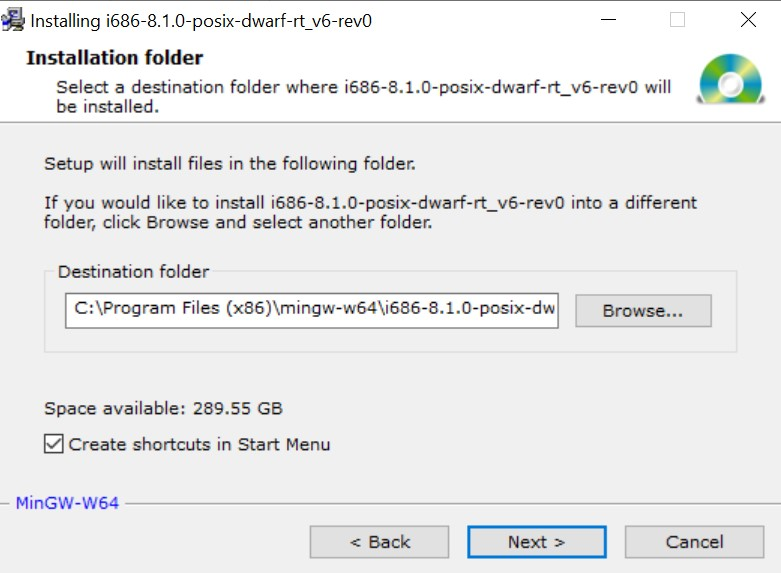
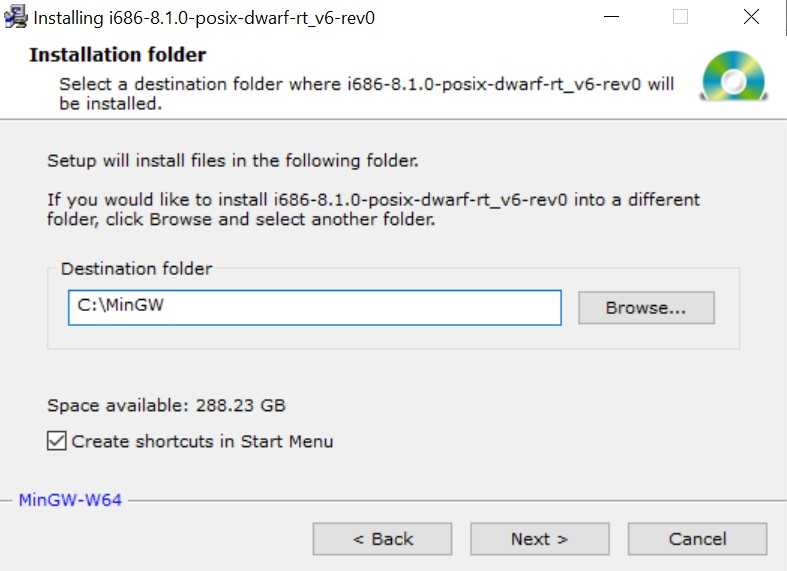
lesson 0 additions

diff --git a/lessons.html b/lessons.html
@@ -12,6 +12,7 @@
 		<link rel="stylesheet" href="assets/css/main.css" />
 		<noscript><link rel="stylesheet" href="assets/css/noscript.css" /></noscript>
 	</head>
+
 	<body class="is-preload">
 
 		<!-- Wrapper -->
@@ -42,42 +43,58 @@
 								</header>
 								<p><b>Introduction:</b> Welcome to the lessons page of the Virtual Arcade System Software Project! This poject
 										is a great opportunity to get started with object oriented programming in C++ regardless of your programming experience. If you are a beginner, don't worry! These lessons 
-										will guide you through every step of building this project. Now let's get started!</p>
-										<p><b><i>Note: This project does not assume any prior programming experience. However, this is not
+										will guide you through every step of building this project. Now let's get started!
+								</p>
+										<p>
+											<b><i>Note: This project does not assume any prior programming experience. However, this is not
 											an easy project and may require you to spend time reading through these lessons and other resources I have linked if you have 
 											little to no programming experience.</i></b> 
-										</br><hr><h2>Lesson 0: Environment setup (completion time: 30 minutes)</h2> 
-										<b>Overview:</b> Before we do anything, we need to set up an environment in which we can program in. This step is very important,
-										so please read and follow every instruction carefully. This setup can be very frustrating if you 
-										miss a step or something goes wrong so please be patient and email me with any questions. </p>
+											</br><hr><h2>Lesson 0: Environment setup (completion time: 30 minutes)</h2> 
+											<i>For terms or concepts that may require additional explanation, I have provided clickable links to simple articles that provide more detail.</i>
+											<br></br>
+											<b>Overview:</b> Before we do anything, we need to set up an environment in which we can program in. This step is very important,
+											so please read and follow every instruction carefully. This setup can be very frustrating if you 
+											miss a step or something goes wrong so please be patient and email me with any questions. 
+										</p>
 										
 										
-										<h4>1. Downloading a code editor</h4> No matter what language you use, when building a software project you need an environment where you can write code. For this project
-								we will be using Visual Studio Code which is a free code editor with tools and extensions that will help us build our project. Follow <a href="https://code.visualstudio.com/download" target="_blank">this link</a>
-							and download the according version (Windows or Mac).<br></br>
+										<h4>1. Downloading a code editor</h4>
+										 No matter what language you use, when building a software project you need an environment where you can write code. For this project
+										 we will be using Visual Studio Code which is a free code editor with tools and extensions that will help us build our project. Follow <a href="https://code.visualstudio.com/download" target="_blank">this link</a>
+										 and download the according version (Windows or Mac).<br></br>
 							
-							<ul>
-								<li>On <b>Windows</b>, an installation setup wizard should pop up (if not it will appear as something similar to "VSCodeUserSetup-x64-1.38.1.exe" in your downloads folder, double click it). Just hit next through the setup
-									and leave the default settings unless you want to configure the installation in a certain way.</li>
-								<li>On <b>Mac</b> it should show up in your downloads. Move the Visual Studio Code .app into 
-									your applications folder and then open up the app.</li>
-							  </ul>
+										<ul>
+											<li>On <b>Windows</b>, an installation setup wizard should pop up (if not it will appear as something similar to "VSCodeUserSetup-x64-1.38.1.exe" in your downloads folder, double click it). Just hit next through the setup
+												and leave the default settings unless you want to configure the installation in a certain way.</li>
+											<li>On <b>Mac</b> it should show up in your downloads. Move the Visual Studio Code .app into 
+												your applications folder and then open up the app.</li>
+										</ul>
 
-							<h4>2. Configuring Visual Studio Code for C++</h4>After installing Visual Studio Code we need to configure it so that we can develop in C++. Open it up if you haven't already and click the extensions icon (under the debug icon) in the left side bar. 
+										<h4>2. Configuring Visual Studio Code for C++</h4>
+							After installing Visual Studio Code we need to configure it so that we can develop in C++. Open it up if you haven't already and click the extensions icon (under the debug icon) in the left side bar. 
 						Search for C++, click the first extension, and install it as shown in this image. <img src="images/extensions_img.jpg" alt="" style="float: left; width: 100%; margin-right: 1%;">This extension helps us write C++ code but does not come with a C++ compiler which we need to be able to run our code.
-						 A compiler is a program that takes our C++ code and translates it into lower level code which we will use to make an executable program. Setting up  Visual Studio Code with a C++
-						compiler will be different based on your OS so follow the steps based on what computer you are using.
-					</p>
-					<h3>Windows</h3>
-					<p><img src="images/mingw_img.jpg" alt="" style="float: right; width: 40%; margin-left: 1%">
-						<ol>Unfortunately Windows does not come with a C++ compiler so we will need to download some extra tools. We will be downloading MinGW which comes with a compiler, debugger, and a make utility, which we need to build this project. 
+						 A compiler is a program that takes our C++ code and translates it into lower level "object code" which we will use to make an executable program. </br><b><i>For a better explanation of a compiler <a href="https://www.coronadoenterprises.com/tutorials/cpp/cpp_ans.html" target="_blank">click here</a></i></b>. </br>Setting up  Visual Studio Code with a C++
+						compiler will be different based on your OS so follow the steps based on your computer.
+						<br></br><h4>3. Setting up Visual Studio Code with a C++ compiler</h4>
+						<center>
+						</br>	<a href="#Windows">Windows</a>
+								&nbsp;|&nbsp;
+								<a href="#Mac">Mac</a>
+						</center><hr>
+						<a name="Windows"></a>	
+				<br>	<h3>Windows</h3> 
+<p><img src="images/mingw_img.jpg" alt="" style="float: right; width: 40%; margin-left: 1%">
+						Unfortunately Windows does not come with a C++ compiler so we will need to download some extra tools. We will be downloading MinGW which comes with a compiler, debugger, and a make utility, which we need to build this project. 
+						
 						<ol>
-							</br><li>Download it at <a href="https://sourceforge.net/projects/mingw-w64/" target="_blank">this link</a>. After it downloads double click on the installer which should say something like "mingw-w64-install.exe" (check your downloads folder if it doesn't pop up and double click it like before). 
+								<h4>Setting up MinGW</h4>
+							<li>Download it at <a href="https://sourceforge.net/projects/mingw-w64/" target="_blank">this link</a>. After it downloads double click on the installer which should say something like "mingw-w64-install.exe" (check your downloads folder if it doesn't pop up and double click it like before). 
 							</li> </br>
-							<li>Click next through the installer setup and when you get to the "Installation folder" section as shown to the right, copy and paste the path of the destination folder into notepad or somewhere because we will need it. Continue through the rest of the setup and wait for it to install.
+							<li>Click next through the installer setup and when you get to the <b>"Installation folder"</b> section as shown to the right, change the path to C:\MinGW. Continue through the rest of the setup and wait for it to install.
 								</li>
-							</br><li>Next we need to add the path to the "bin" folder for MinGW to our PATH so that we can access the tools from any directory. Follow these steps which reference the images below. 
-								<ul>
+							</br><li>Next we need to add the path to the "bin" folder for MinGW to our PATH variable so that we can access the tools from any directory. 
+								<i><br></br><a href="https://john-dugan.com/path-variable-in-windows/" target="_blank"> What is the PATH variable?</a> </br>Note: "path" vs "path variable". "path" typically refers to a location in a file system like "C:\Users\userOne\Documents\file.txt"</i><br></br>Follow these five steps to which each reference the five images below. 
+								<ol>
 									<li>
 										search environment in the windows search bar and select "Edit the system environment variables"
 									</li>
@@ -88,9 +105,10 @@
 												Then click the "path" row under "System Variables" and click the "edit" button
 									</li>
 									<li>
-											Finally click the "New" button and paste the installation directory that we copied from before. IMPORTANT: make sure that you add "\mingw32\bin" at the end after you paste. Click "ok" on all the open tabs.
-								    </li>
-								</ul>
+											Finally click the "New" button and type the installation directory that we had from before. IMPORTANT: make sure that you add "\mingw32\bin" at the end. Then click "ok" on all the open tabs.
+									</li>
+									<li>To test if you configured the PATH variable correctly, open the command prompt (search cmd in the windows search bar) and type "g++". You should get something like: "g++: fatal error: no input files compilation terminated."</li>
+								</ol>
 							</li>
 						</ol>
 						<div class="row">
@@ -98,77 +116,113 @@
 								  <img src="images/env1.jpg" alt="" style="float: left; width: 50%; margin-right: 1%;margin-bottom: 3%;">
 								  <img src="images/env2.jpg" alt="" style="float: left; width: 50%; margin-right: 1%;margin-bottom: 3%;">
 								  <img src="images/env3.jpg" alt="" style="float: left; width: 50%; margin-right: 1%;margin-bottom: 3%;">	
-								  <img src="images/env4.jpg" alt="" style="float: left; width: 50%; margin-right: 1%;margin-bottom: 3%;">								</div>
+								  <img src="images/env4.jpg" alt="" style="float: left; width: 50%; margin-right: 1%;margin-bottom: 3%;">
+								  <img src="images/env5.jpg" alt="" style="float: left; width: 50%; margin-right: 1%;margin-bottom: 3%;">
+								</div>
+						</div>
+						<h4>Setting up Visual Studio Code with g++ (still windows)</h4>
+						  Now we need to configure Visual Studio Code with the C++ compiler g++ that comes with MinGW by editing a properties file. However, first we must create and open a folder where we want these 
+						 configuration settings to take effect.
+						 <ul>
+							 <li>create a new folder on your computer, then in VS Code go to File->Open Folder and open that folder</li>
+							 <li>Now go to the Command pallete by clicking View -> Command Pallette or CTRL + SHIFT + P.</li>
+							 <li>In the search bar type C++ and click the "Edit Configurations (UI)" option. A new tab will open called C/C++ Configurations.</li>
+							 <li>Scroll down to the "Compiler Path" section and type "C:/MinGW/mingw32/bin/g++" in with the quotes.</li>
+							 <li>Under intelliSense mode choose "gcc-x64".</li>
+							 <img src="images/config_img.jpg" alt="" style="float: left; width: 100%; margin-right: 1%;">
+						 </ul>
+						 
+						 <h4>Testing if C++ works with Visual Studio Code on Windows</h4>
+						  Our environment is finally setup for C++ so let's check it to make sure it works.
+						 <ul>
+							 <li>Go to File -> New File. Save with CTRL + S and it will prompt you to name it, save as test.cpp</li>
+							 <li>Copy and paste the following code: 
+<xmp>#include <iostream>
+using namespace std;
 
-								<div class="column">
-							  </div>
-						 <br></br> Now we need to configure Visual Studio Code with the C++ compiler g++ that comes with MinGW by editing a properties file. To do this we need to go to the Command pallete by clicking View -> Command Pallette or CTRL + SHIFT + P. In the search bar type C++ and click the "Edit Configurations (UI)" option. A new tab will open called C/C++ Configurations. Scroll down to the "Compiler Path" section and click on the drop down menu. g++ should show up as an option, click it and make sure to put double quotes around the path. Under intelliSense mode choose "msvc-x64". Our environment is finally setup for C++ so let's check it to make sure it works. Go to File -> New File and type test.cpp. Copy and paste the following code. Then in te terminal type this command and press enter. Finally run it by doing this command. If you get this output then C++ is working correctly with Visual Studio Code. If not, check to make sure all the steps are correct. If you get funky errors, send me an email or come to my office hour. Otherwise, let's move on to the next step.
-					<br></br> The next step is to set up the SDL2 library. This librar provides us with many functions that we will use to do things like creating windows, display graphics, capture user input, and much more which 
-					would otherwise be very difficult to do from scratch. To set up this library we need files... I have already packaged all these to make the process simple in a repository online. To access This
-					we need a tool called git. Git is a version control tool which means ... We can store code remotely and locally. We are going to get the remote code and put it locally. It has all the stuff we need.
-					</p>
-					<h3>Mac</h3>
-					<h3>Linux</h3>
-								
-							</section>
+int main()
+{
+	cout << "If this prints then you have set up C++ correctly!";
+	return 0;
+}
+</xmp></li>
+							 <li>Go to Terminal -> New Terminal, press enter, and type the following commands:
+<xmp>g++ -o test test.cpp
+.\test
+</xmp>
+This image is what it should look like. If you get an error and can't figure it out please email me or come to my office hour.
+<div class="row">
+		<div class="column">
+				<img src="images/test_img.jpg" alt="" style="float: left; width: 100%; margin-right: 1%;">
+		</div>
+</div>
 
-					</div>
+							 </li>
+</ul> 
+<hr>
+</p>
+<a name="Mac"></a>
+<h3>MAC</h3>	
+<p>Fortunately, the setting up C++ to compile on a Mac is much easier than Windows because Mac has an easy way to install "command line developer tools" which will provide us with utilities like g++ (C++ compiler) and Make.
+		<h4>Downloading command line developer tools on Mac</h4>
+		<ol>
+				<li>
+					open the search by using Command + Space. Type in "Terminal" and press enter to open it up
+				</li>
+				<li>
+						In the terminal type "g++" to check if you have it installed already. If not you will get a pop up window to install the "command line developer tools". Make sure to click "install" and NOT "Get Xcode".
+				</li>
+				<li>
+							Now type g++ and make sure you get something like "$ g++ clang: error: no input files"
+				</li>
+			</ol>
+
+			<h4>Configuring Visual Studio Code with g++</h4>
+		<ol>
+				<li>
+					First we need to set up Visual Studio Code to open from the command line. In VS code type CTRL + SHIFT + P to open up the command pallete or go to View -> Command Pallete
+				</li>
+				<li>
+						Now type Shell and select "Shell Command: Install 'code' command in PATH." After it installs close VS code.
+				</li>
+				<li>
+							Now open up the terminal if you closed it and type "mkdir testFolder" to make a new folder. Enter that folder by typing "cd testFolder". Finally type "Code ." to open up this folder in VS Code.
+				</li>
+				<li>
+						Open the command pallette like before and type C++ and select  "Edit Configurations (UI)". A new tab called c_cpp_properties.json will open up. Edit the configurations as follows.
+			</li>
+			</ol>
+</p>
+<p>
+	<h4>3. Managing a new project using Git and linking to the SDL2 library</h4>
+	
+	Now that we have our code editor working with C++ we can start a project. When creating multifile projects
+	or any mid to large size programming project we want to manage them with a version-control system called Git and save our code online using
+	a site called Github.</br><a href="https://betterexplained.com/articles/a-visual-guide-to-version-control/" target="_blank">What is version control?</a>
+
+</br>I have created a repository (basically a directory to store a project) on github with some base code which we will build off of. This base code includes, makefiles and build tasks,
+the SDL2 library, and a small set of classes I created to help create a simple menu system. What we will be doing is copying the base code into a local directory
+on your computer and start from there.
+<ol>
+	<li>
+		first download git if you don't have it already <a href="https://git-scm.com/downloads" target="_blank">from this link</a>
+	</li>
+	<li>
+		next, create an account on github if you don't have one already <a href="https:github.com/" target="_blank">from this link</a>
+	</li>
+
+</ol>
+</p>
 
 				<!-- Footer -->
 					<footer id="footer">
-						<section>
-							<form method="post" action="#">
-								<div class="fields">
-									<div class="field">
-										<label for="name">Name</label>
-										<input type="text" name="name" id="name" />
-									</div>
-									<div class="field">
-										<label for="email">Email</label>
-										<input type="text" name="email" id="email" />
-									</div>
-									<div class="field">
-										<label for="message">Message</label>
-										<textarea name="message" id="message" rows="3"></textarea>
-									</div>
-								</div>
-								<ul class="actions">
-									<li><input type="submit" value="Send Message" /></li>
-								</ul>
-							</form>
-						</section>
-						<section class="split contact">
-							<section class="alt">
-								<h3>Address</h3>
-								<p>1234 Somewhere Road #87257<br />
-								Nashville, TN 00000-0000</p>
-							</section>
-							<section>
-								<h3>Phone</h3>
-								<p><a href="#">(000) 000-0000</a></p>
-							</section>
-							<section>
-								<h3>Email</h3>
-								<p><a href="#">info@untitled.tld</a></p>
-							</section>
-							<section>
-								<h3>Social</h3>
-								<ul class="icons alt">
-									<li><a href="#" class="icon brands alt fa-twitter"><span class="label">Twitter</span></a></li>
-									<li><a href="#" class="icon brands alt fa-facebook-f"><span class="label">Facebook</span></a></li>
-									<li><a href="#" class="icon brands alt fa-instagram"><span class="label">Instagram</span></a></li>
-									<li><a href="#" class="icon brands alt fa-github"><span class="label">GitHub</span></a></li>
-								</ul>
-							</section>
-						</section>
+						
 					</footer>
 
 				<!-- Copyright -->
 					<div id="copyright">
 						<ul><li>&copy; Untitled</li><li>Design: <a href="https://html5up.net">HTML5 UP</a></li></ul>
 					</div>
-
-			</div>
 
 		<!-- Scripts -->
 			<script src="assets/js/jquery.min.js"></script>

diff --git a/index.html b/index.html
@@ -57,8 +57,8 @@
 
 									<div class="column">
 								  </div>
-								  <br></br><p><b>Overview:</b> This year's software project will teach you how to program a "Virtual Arcade System"
-									in C++ using the SDL2 Library and a simple menu GUI (graphical user interface).
+								  <br></br><p><b>Overview:</b> This year's software project will teach you how to build a "Virtual Arcade System"
+									in C++ using the SDL2 Library and a simple GUI (graphical user interface).
 									As shown in the pictures above, you will be building an awesome Arcade System with a
 									customizable menu system and classic games like brick breaker and tetris! Before getting
 									started, read the paragraphs below to help you understand how this website and project is organized.
